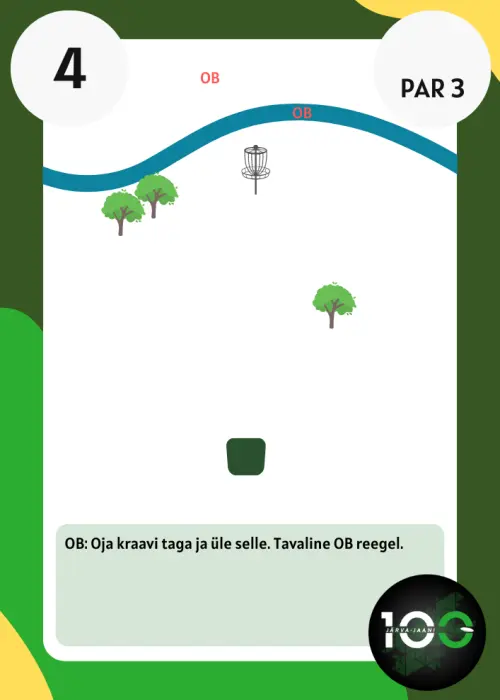
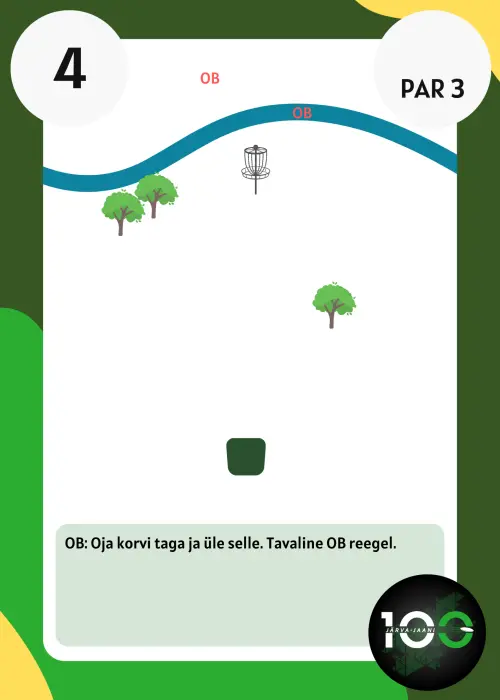
add to pages

diff --git a/src/pages/dashboard.tsx b/src/pages/dashboard.tsx
@@ -257,7 +257,7 @@ export default function TopHolesDashboard() {
                                     </Box>
                                     <Box sx={{display: 'flex', justifyContent: 'center', my: 2}}>
                                         <Image
-                                            src={`/cards/${holeNumber}.webp?v=3`}
+                                            src={`/cards/${holeNumber}.webp?v=4`}
                                             alt={`Rada ${holeNumber}`}
                                             layout="intrinsic"
                                             width={450}

diff --git a/src/pages/course/index.tsx b/src/pages/course/index.tsx
@@ -220,7 +220,7 @@ export default function CoursePage() {
                                     </Box>
                                 )}
                                 <Image
-                                    src={`/cards/${number}.webp?v=3`}
+                                    src={`/cards/${number}.webp?v=4`}
                                     alt={`Rada ${number}`}
                                     layout="fill"
                                     objectFit="cover"
